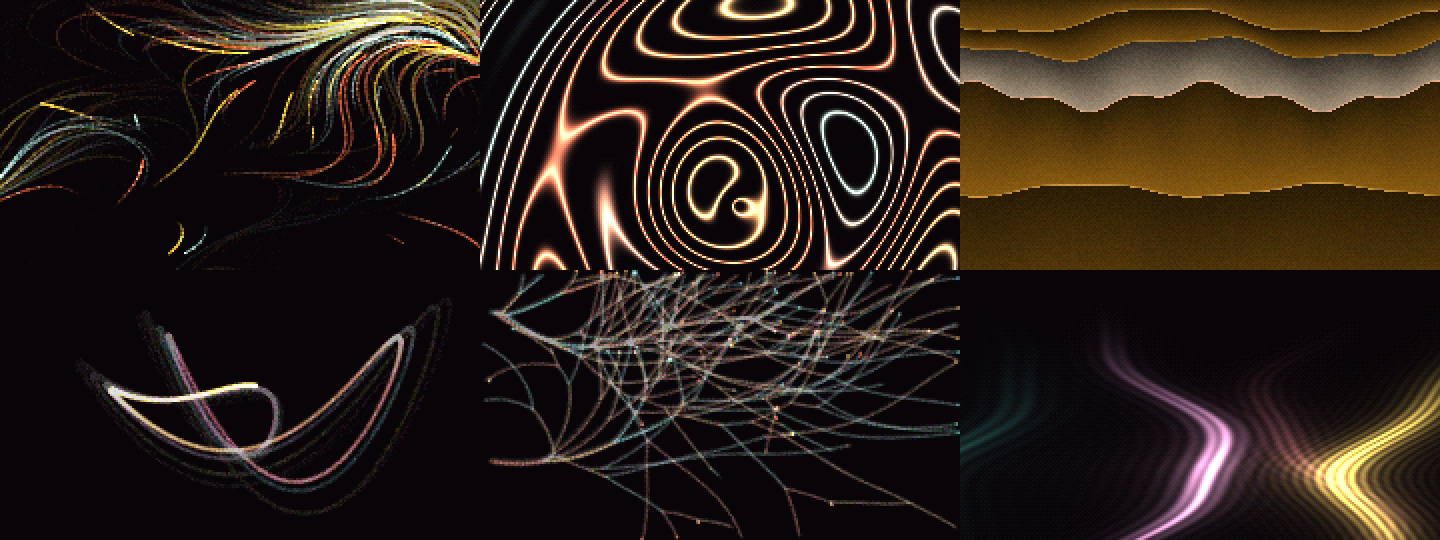
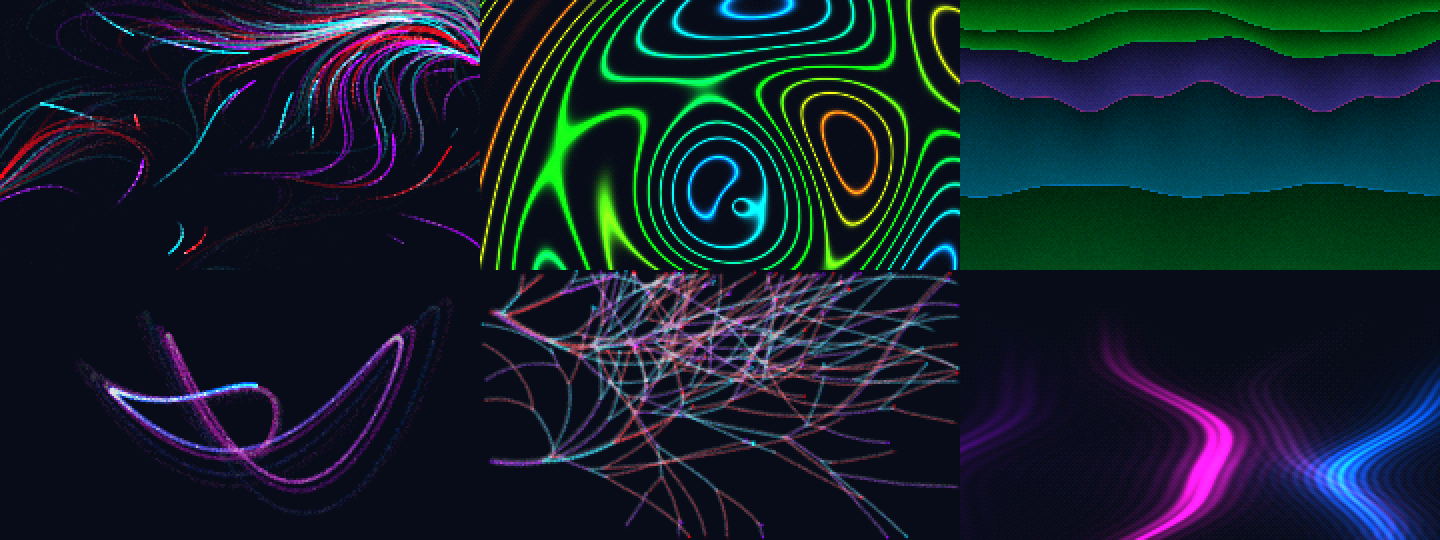
Take Rill Drums' palette
Drums settled its four palettes with swatch tests on the panel itself, which
beats anything tuned against a monitor here. Its grounds and inks are carried
over unchanged, with white reserved for highlight cores.

Strata blends each band between two inks instead of filling it with one flat
primary: a band is the largest area any of these families covers, and it is
the one place a pure primary looks cheap.

diff --git a/src/Light.h b/src/Light.h
@@ -300,8 +300,15 @@ class Painting {
         const Layer& l = layers[i];
         float edge = l.base + l.amp1 * fsin(fx * l.freq1 + l.ph1 + phase * 0.012f)
                             + l.amp2 * fsin(fx * l.freq2 + l.ph2 - phase * 0.021f) + sway * float(i) * 0.12f;
-        unsigned mix3 = unsigned(l.tone * 3.0f) % 3;
-        const Color& body = ink[mix3];
+        // Bands blend between two inks rather than taking one flat. A band
+        // is the largest area any family fills, and a pure primary across
+        // that much of the screen is the one place these inks look cheap.
+        float toneMix = l.tone * 3.0f;
+        unsigned mix3 = unsigned(toneMix) % 3, next = (mix3 + 1) % 3;
+        float toneBlend = toneMix - float(unsigned(toneMix));
+        const Color body = {ink[mix3].r + (ink[next].r - ink[mix3].r) * toneBlend,
+                            ink[mix3].g + (ink[next].g - ink[mix3].g) * toneBlend,
+                            ink[mix3].b + (ink[next].b - ink[mix3].b) * toneBlend};
         int top = std::max(0, int(previous));
         int bottom = std::min(int(height) - 1, int(edge));
         float thickness = std::max(1.0f, edge - previous);
@@ -585,43 +592,34 @@ class Painting {
 
   void regenerate() {
     kind = count ? (kind + 1 + random() % (familyCount - 1)) % familyCount : random() % familyCount;
-    palette = count ? (palette + 1 + random() % 5) % 6 : random() % 6;
+    palette = count ? (palette + 1 + random() % 3) % 4 : random() % 4;
     ++count;
     phase = unit() * 40.0f;
     breath = 0;
     for (auto& p : parameters) p = unit();
     pace = 0.75f + parameters[7] * 0.6f;
-    // Mid-century printing hues, not screen primaries. Two earlier attempts
-    // failed in opposite directions: muted neighbours on the wheel went dull,
-    // and saturated primaries went neon. These are taken from period spot
-    // palettes (1950s diner, 1960s flower child, 1970s sunshine and
-    // butterscotch) and kept at hues that do not exist on a colour wheel's
-    // corners: coral rather than red, tiffany rather than cyan, amber and
-    // harvest gold rather than yellow, verdigris rather than green.
-    //
-    // Two rules do most of the work. Every palette holds one cool against two
-    // warms, which is what keeps a blend of any two of them a colour rather
-    // than grey. And the highlight is cream, never white: a white highlight
-    // is what makes an emissive palette read as neon however careful the
-    // three inks are.
-    static const Color palettes[6][4] = {
-      {{ 95, 178, 174}, {238, 150, 150}, {226, 186,  98}, {249, 229, 218}},  // diner
-      {{104, 199, 193}, {245, 127,  91}, {250, 202, 120}, {255, 244, 226}},  // sunshine
-      {{110, 160, 148}, {229,  90,  50}, {250, 190,  45}, {245, 232, 205}},  // flower child
-      {{206,  70,  48}, {226, 150,  30}, {250, 222, 186}, {255, 246, 230}},  // butterscotch
-      {{168, 200, 206}, {204,  92,  76}, {216, 146, 154}, {246, 231, 207}},  // foxy
-      {{ 60, 168, 152}, {216,  88, 150}, {232, 200,  88}, {246, 236, 214}},  // peace
-    };
+    // The same four palettes as Rill Drums, carried over unchanged. Their
+    // comment there records why: on-device swatch tests found that nudging
+    // red and green toward other hues to "correct" them looked worse, and
+    // that pure red, pure green, this blue and this purple are the ones that
+    // read true on the actual panel, with pink and cyan in the same clean
+    // territory. Nothing tuned on a monitor beat them on the device.
+    static const Color palettes[4][3] = {
+      {{255,   0,   0}, {  0, 255,   0}, {  0,  90, 255}},
+      {{160,   0, 255}, {255,  20, 147}, {  0,  90, 255}},
+      {{255,   0,   0}, {160,   0, 255}, {  0, 220, 255}},
+      {{  0, 255,   0}, {  0,  90, 255}, {255,  20, 147}}};
     for (unsigned i = 0; i < 3; ++i) ink[i] = palettes[palette][i];
-    glow = palettes[palette][3];
+    // Hot white cores, used only where a mark needs a highlight: a tip, a
+    // pen head, the lit edge of a band.
+    glow = {255, 255, 255};
     // One ground colour for the whole screen, tinted toward the palette and
     // held within a step of black. A gradient was tried first and could not
     // survive five bits of red: it arrived on the display as two or three
     // horizontal bands, which is worse than no gradient at all. Depth is the
     // drawing's job here, not the ground's.
-    // A warm near-black, in the register of ink on dark paper rather than a
-    // blue screen black.
-    Color base = {ink[1].r * 0.014f + 5, ink[1].g * 0.012f + 4, ink[1].b * 0.012f + 5};
+    // Rill Drums' ground, so the two instruments sit on the same dark.
+    Color base = {12, 14, 24};
     uint16_t ground = uint16_t((std::min(int(base.r * (31.0f / 255.0f) + 0.5f), 31) << 11)
                              | (std::min(int(base.g * (63.0f / 255.0f) + 0.5f), 63) << 5)
                              | std::min(int(base.b * (31.0f / 255.0f) + 0.5f), 31));

diff --git a/CHANGELOG.md b/CHANGELOG.md
@@ -7,7 +7,7 @@
 - Archived the original six families in `src/LightClassic.h`, unused by the firmware; the retained-behavior test now holds that archive to the historical fixture.
 - Slowed the interference field to about a third of its first speed.
 - Reworked the pendulum: the pen now moves slowly enough to be followed, its envelope bottoms out instead of collapsing, and a new figure starts every twenty seconds or so, so it never settles into a filled shape.
-- Replaced the palettes with six taken from mid-century spot printing: a 1950s diner, 1960s flower child and foxy, 1970s sunshine and butterscotch, and a 60s peace palette. Coral rather than red, verdigris and tiffany rather than green and cyan, amber and harvest gold rather than yellow, and a cream highlight rather than white.
+- Took Rill Drums' four palettes and ground unchanged, so the two instruments share a colour. Strata blends its bands between two inks rather than filling a large area with one flat primary.
 - Raised the display brightness from 55 to 100 and lifted the dimmer families, after finding that mid-tones which read on a monitor disappear on the panel.
 - Fixed growth roots spawning outside the escape bound, where they died on their first step and left the screen blank; raised its crowding threshold to match the brighter strokes.
 - Not yet seen on hardware. The frame times are host measurements.
